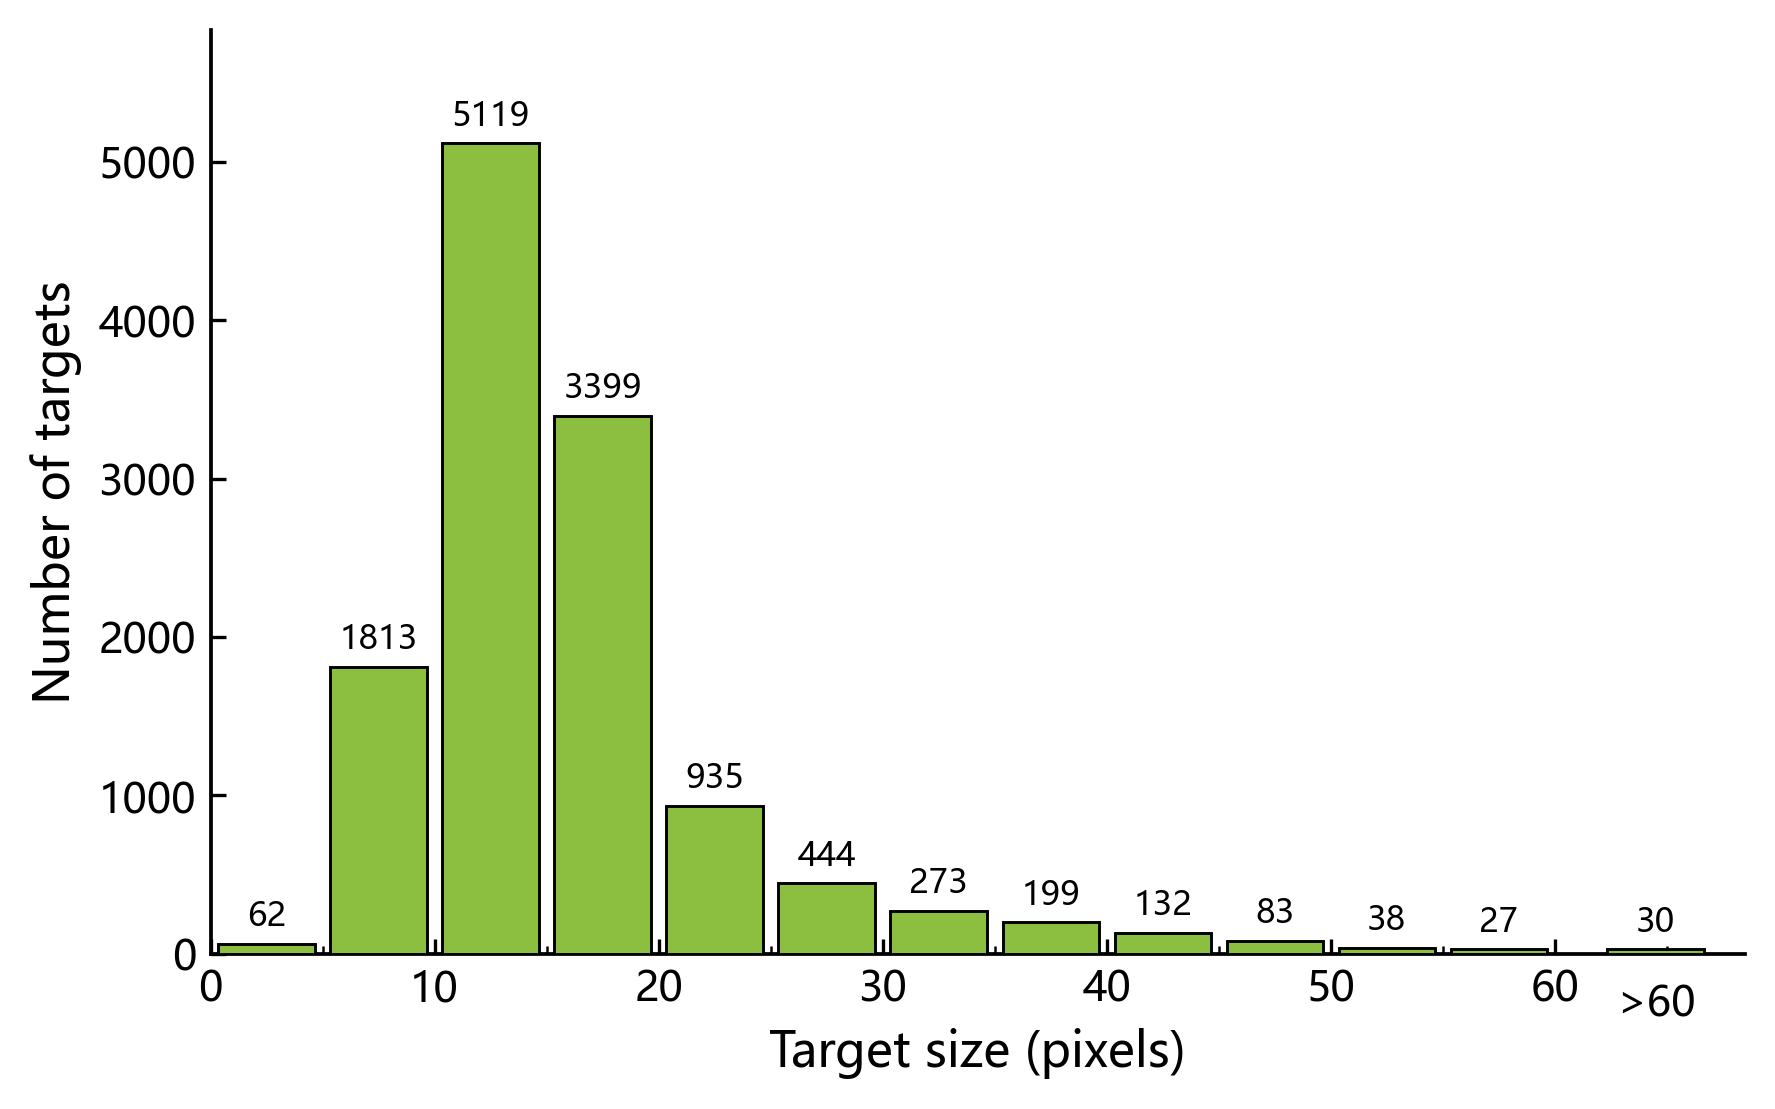
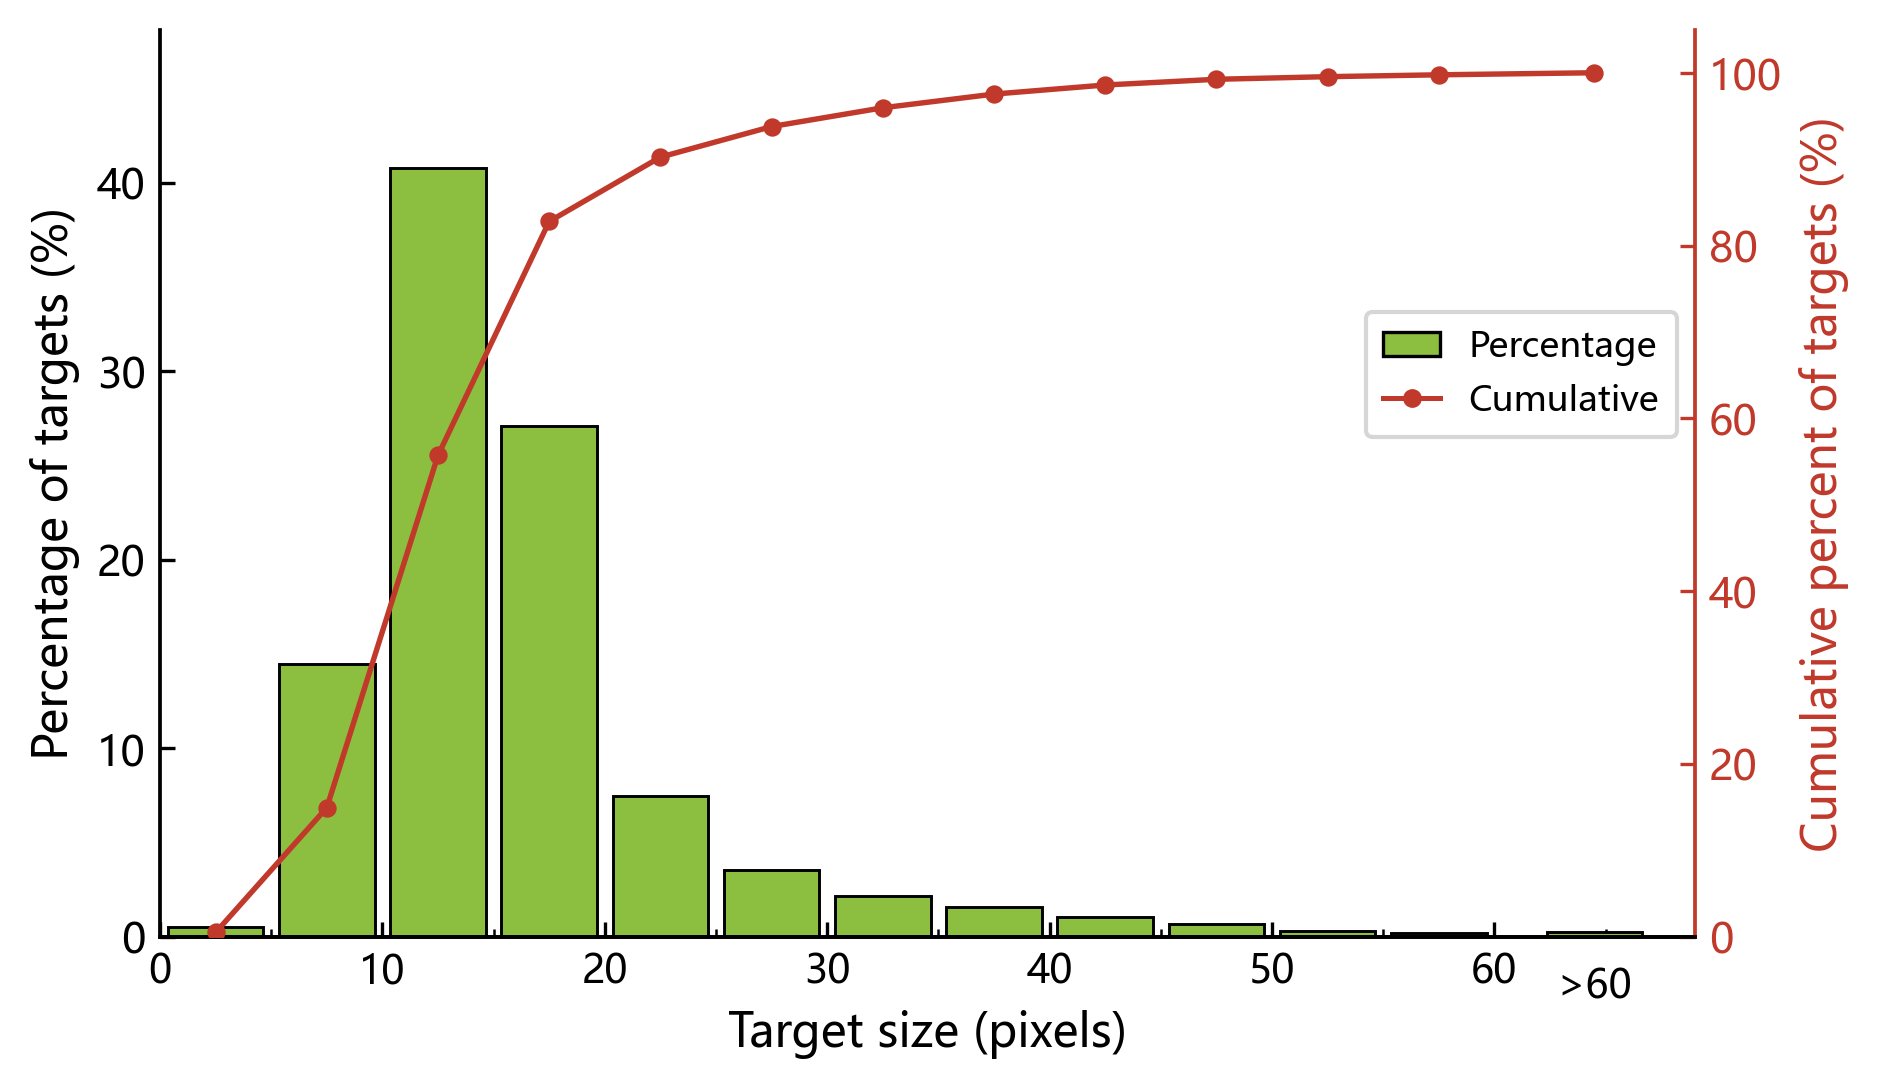
数据集统计图改为占比 + 右轴累计曲线，并合并为 (a)(b) 双栏图

diff --git a/tools/plot_seal_dataset_stats.py b/tools/plot_seal_dataset_stats.py
@@ -1,16 +1,20 @@
-"""Plot Seal dataset statistics (target number per image, target size).
+"""Plot Seal dataset statistics: target number per image and target size.
 
-Input: JSON produced by tmp/seal_dataset_stats.py (run on the server).
-Output: two PNGs in Ours/dataset_stats/.
+Input: JSON produced by tools/compute_seal_dataset_stats.py (run on the server).
+Outputs (Ours/dataset_stats/):
+    seal_dataset_statistics.png            two panels (a)(b), for the paper
+    seal_target_number_distribution.png    panel (a) alone
+    seal_target_size_distribution.png      panel (b) alone
 
-Style follows the IRSTD dataset-statistics figure used in papers: white
-background, single-colour bars with black edges, left/bottom spines only, no
-grid. All text uses Microsoft YaHei as requested.
+Both panels show the percentage on the left axis and the cumulative
+percentage on the right axis (Fig. 4(b) style). White background, single-colour
+bars with black edges, cumulative line + markers on a twin axis, left/bottom
+spines only, no grid. All text uses Microsoft YaHei.
 
 Binning
 -------
-* target number per image: exact 1..10, then 11-15 / 16-20 / >20, because
-  95 % of the images have at most 10 targets and the tail reaches 47.
+* target number per image: exact 1..10, then 11-15 / 16-20 / >20 (95 % of the
+  images have at most 10 targets; the tail reaches 47).
 * target size: 5-pixel bins from 0 to 60, plus one ">60" bar; only 30 of the
   12,554 targets (0.24 %) are larger than 60 px (max 114).
 """
@@ -23,14 +27,16 @@ import matplotlib
 matplotlib.use("Agg")
 import matplotlib.pyplot as plt
 from matplotlib import font_manager
-from matplotlib.ticker import MultipleLocator
+from matplotlib.lines import Line2D
+from matplotlib.patches import Patch
+from matplotlib.ticker import FormatStrFormatter, MultipleLocator
 
 ROOT = Path(__file__).resolve().parents[1]
-
 EXACT = list(range(1, 11))
 NUMBER_TAIL = [("11-15", 11, 15), ("16-20", 16, 20), (">20", 21, 10 ** 6)]
 SIZE_EDGES = list(range(0, 60, 5))
 BAR_COLOR = "#8CBF3F"
+CURVE_COLOR = "#C0392B"
 
 
 def pick_font():
@@ -46,8 +52,8 @@ def setup(font):
     plt.rcParams.update({
         "font.family": font,
         "font.size": 10,
-        "axes.labelsize": 11.5,
-        "xtick.labelsize": 10,
+        "axes.labelsize": 11,
+        "xtick.labelsize": 9.5,
         "ytick.labelsize": 10,
         "axes.linewidth": 0.9,
         "xtick.direction": "in",
@@ -57,7 +63,17 @@ def setup(font):
     })
 
 
-def finish(ax):
+def couple_axes(ax2, unit):
+    ax2.set_ylim(0, 105)
+    ax2.set_ylabel(f"Cumulative percent of {unit} (%)", color=CURVE_COLOR)
+    ax2.tick_params(axis="y", colors=CURVE_COLOR, direction="in")
+    ax2.spines["right"].set_color(CURVE_COLOR)
+    for side in ("top", "left"):
+        ax2.spines[side].set_visible(False)
+    ax2.yaxis.set_major_locator(MultipleLocator(20))
+
+
+def tidy(ax):
     for side in ("top", "right"):
         ax.spines[side].set_visible(False)
     ax.spines["left"].set_color("black")
@@ -65,64 +81,112 @@ def finish(ax):
     ax.grid(False)
 
 
-def bar_target_number(stats, outdir: Path):
+def add_legend(ax, loc="upper right", anchor=None):
+    handles = [Patch(facecolor=BAR_COLOR, edgecolor="black", linewidth=0.8, label="Percentage"),
+               Line2D([], [], color=CURVE_COLOR, marker="o", markersize=3.5, linewidth=1.2,
+                      label="Cumulative")]
+    ax.legend(handles=handles, loc=loc, bbox_to_anchor=anchor, frameon=True, fontsize=8.5,
+              borderpad=0.5, handlelength=1.6)
+
+
+def panel_number(ax, stats):
     per_image = {int(k): v for k, v in stats["per_image"].items()}
-    labels, counts = [str(k) for k in EXACT], [per_image.get(k, 0) for k in EXACT]
+    labels = [str(k) for k in EXACT]
+    counts = [per_image.get(k, 0) for k in EXACT]
     for name, lo, hi in NUMBER_TAIL:
         labels.append(name)
         counts.append(sum(v for k, v in per_image.items() if lo <= k <= hi))
+    total = sum(counts)
+    pct = [c / total * 100 for c in counts]
+    cum, running = [], 0.0
+    for p in pct:
+        running += p
+        cum.append(running)
 
-    fig, ax = plt.subplots(figsize=(7.3, 4.0))
+    ax2 = ax.twinx()
     x = list(range(len(counts)))
-    ax.bar(x, counts, width=0.72, color=BAR_COLOR, edgecolor="black", linewidth=0.8, zorder=3)
+    ax.bar(x, pct, width=0.72, color=BAR_COLOR, edgecolor="black", linewidth=0.8, zorder=2)
+    ax2.plot(x, cum, color=CURVE_COLOR, marker="o", markersize=3.6, linewidth=1.3, zorder=4)
+
     ax.set_xticks(x)
     ax.set_xticklabels(labels)
     for tick, label in zip(ax.get_xticklabels(), labels):
         if "-" in label or label.startswith(">"):
-            tick.set_fontsize(9)
-    ax.set_xlabel("Target number per image")
-    ax.set_ylabel("Number of images")
-    ax.set_ylim(0, max(counts) * 1.14)
-    ax.yaxis.set_major_locator(MultipleLocator(500))
+            tick.set_fontsize(8.5)
+            tick.set_rotation(32)
+            tick.set_ha("right")
+            tick.set_rotation_mode("anchor")
     ax.set_xlim(-0.7, len(counts) - 0.3)
-    for i, c in enumerate(counts):
-        ax.text(i, c + max(counts) * 0.012, f"{c}", ha="center", va="bottom", fontsize=8.5)
-    finish(ax)
-    out = outdir / "seal_target_number_distribution.png"
-    fig.savefig(out)
-    plt.close(fig)
-    print(f"wrote {out}  images {sum(counts)}")
+    ax.set_ylim(0, max(pct) * 1.18)
+    ax.set_xlabel("Target number per image")
+    ax.set_ylabel("Percentage of images (%)")
+    ax.yaxis.set_major_formatter(FormatStrFormatter("%.0f"))
+    tidy(ax)
+    couple_axes(ax2, "images")
+    add_legend(ax, loc="center right", anchor=(1.0, 0.45))
 
 
-def bar_target_size(stats, outdir: Path):
+def panel_size(ax, stats):
     area = {int(k): v for k, v in stats["area_hist"].items()}
     counts = [sum(v for k, v in area.items() if lo <= k < lo + 5) for lo in SIZE_EDGES]
     overflow = sum(v for k, v in area.items() if k >= SIZE_EDGES[-1] + 5)
+    total = sum(counts) + overflow
+    pct = [c / total * 100 for c in counts] + [overflow / total * 100]
+    cum, running = [], 0.0
+    for p in pct:
+        running += p
+        cum.append(running)
 
-    fig, ax = plt.subplots(figsize=(6.6, 4.0))
     centers = [lo + 2.5 for lo in SIZE_EDGES]
-    ax.bar(centers, counts, width=4.3, color=BAR_COLOR, edgecolor="black", linewidth=0.7, zorder=3)
     x_tail = SIZE_EDGES[-1] + 9.5
-    ax.bar([x_tail], [overflow], width=4.3, color=BAR_COLOR, edgecolor="black", linewidth=0.7, zorder=3)
+    ax2 = ax.twinx()
+    ax.bar(centers, pct[:-1], width=4.3, color=BAR_COLOR, edgecolor="black", linewidth=0.7, zorder=2)
+    ax.bar([x_tail], [pct[-1]], width=4.3, color=BAR_COLOR, edgecolor="black", linewidth=0.7, zorder=2)
+    ax2.plot(centers + [x_tail], cum, color=CURVE_COLOR, marker="o", markersize=3.4,
+             linewidth=1.3, zorder=4)
+
     ticks = list(range(0, SIZE_EDGES[-1] + 6, 10))
     ax.set_xticks(ticks)
     ax.set_xticklabels([str(t) for t in ticks])
     ax.annotate(">60", xy=(x_tail, 0), xytext=(0, -7), textcoords="offset points",
-                ha="center", va="top", fontsize=10, annotation_clip=False)
-    ax.set_xlim(0, x_tail + 4)
+                ha="center", va="top", fontsize=9.5, annotation_clip=False)
+    ax.set_xlim(0, x_tail + 4.5)
+    ax.set_ylim(0, max(pct) * 1.18)
     ax.set_xlabel("Target size (pixels)")
-    ax.set_ylabel("Number of targets")
-    ax.set_ylim(0, max(counts) * 1.14)
-    ax.yaxis.set_major_locator(MultipleLocator(1000))
+    ax.set_ylabel("Percentage of targets (%)")
+    ax.yaxis.set_major_formatter(FormatStrFormatter("%.0f"))
     ax.xaxis.set_minor_locator(MultipleLocator(5))
-    for center, count in list(zip(centers, counts)) + [(x_tail, overflow)]:
-        if count:
-            ax.text(center, count + max(counts) * 0.012, f"{count}", ha="center", va="bottom", fontsize=8)
-    finish(ax)
-    out = outdir / "seal_target_size_distribution.png"
+    tidy(ax)
+    couple_axes(ax2, "targets")
+    add_legend(ax, loc="center right", anchor=(1.0, 0.62))
+
+
+def label_panels(axes):
+    for ax, tag in zip(axes, ("(a)", "(b)")):
+        ax.annotate(tag, xy=(0.5, 0), xycoords="axes fraction", xytext=(0, -46),
+                    textcoords="offset points", ha="center", va="top", fontsize=11)
+
+
+def render(stats, outdir: Path):
+    fig, axes = plt.subplots(1, 2, figsize=(12.2, 4.1))
+    panel_number(axes[0], stats)
+    panel_size(axes[1], stats)
+    label_panels(axes)
+    fig.subplots_adjust(wspace=0.45, bottom=0.22)
+    out = outdir / "seal_dataset_statistics.png"
     fig.savefig(out)
     plt.close(fig)
-    print(f"wrote {out}  targets {sum(counts) + overflow} (>{SIZE_EDGES[-1]}: {overflow})")
+    print(f"wrote {out}")
+
+    for maker, name in ((panel_number, "seal_target_number_distribution.png"),
+                        (panel_size, "seal_target_size_distribution.png")):
+        fig, ax = plt.subplots(figsize=(6.6, 4.2))
+        maker(ax, stats)
+        fig.subplots_adjust(bottom=0.16)
+        out = outdir / name
+        fig.savefig(out)
+        plt.close(fig)
+        print(f"wrote {out}")
 
 
 def main():
@@ -139,8 +203,7 @@ def main():
     font = pick_font()
     print("font:", font)
     setup(font)
-    bar_target_number(stats, args.outdir)
-    bar_target_size(stats, args.outdir)
+    render(stats, args.outdir)
     print("images", stats["images"], "targets", stats["targets"],
           "empty", stats["empty_images"], "area", stats["area_summary"])
 

diff --git a/Ours/dataset_stats/README.md b/Ours/dataset_stats/README.md
@@ -27,18 +27,27 @@
 
 95.2%（3,793 张）的图像最多 10 个目标，尾部单张最多 47 个。
 
-## 两张图
+## 三张图
 
 | 文件 | 内容 |
 |---|---|
-| `seal_target_number_distribution.png` | 横轴：每图目标个数；纵轴：图像数（样本数） |
-| `seal_target_size_distribution.png` | 横轴：目标大小（像素）；纵轴：mask 个数（目标数） |
+| `seal_dataset_statistics.png` | **(a)(b) 双栏合并图，可直接进论文** |
+| `seal_target_number_distribution.png` | 单图 (a)：横轴每图目标个数 |
+| `seal_target_size_distribution.png` | 单图 (b)：横轴目标大小（像素） |
 
+两栏都以**占比**为纵轴、右轴给**累计占比**（Fig. 4(b) 的做法）：
+
+- (a) 纵轴 = 该目标个数的图像数 / 全部图像数（%）；右轴 = 累计图像占比。
+- (b) 纵轴 = 该尺寸区间的目标数 / 全部目标数（%）；右轴 = 累计目标占比。
 - 横轴分箱：目标个数用 1–10 精确值 + `11-15` / `16-20` / `>20` 三组；目标大小用 5 像素一格（0–60），
   末端 `>60` 单独一根柱（全部数据里只有 30 个目标，占 0.24%，最大 114 px），避免长尾把主体压扁。
-- 样式：单色柱 + 黑边，仅保留左/下坐标轴、无网格，柱顶标数值；字体 **Microsoft YaHei**，
-  300 dpi，`bbox_inches='tight'`。
-- 两张图的柱颜色统一为 `#8CBF3F`。
+- 样式：单色柱（`#8CBF3F`）+ 黑边；累计曲线用红棕色（`#C0392B`）圆点线画在右轴；
+  仅保留必要坐标轴、无网格；字体 **Microsoft YaHei**，300 dpi，`bbox_inches='tight'`。
+
+图注可用：
+
+> Fig. X. Statistics of the Seal dataset. (a) Target number per image and (b) target size
+> distribution. Bars: percentage of images / targets; red lines (right axis): cumulative percentage.
 
 ## 复算
 
@@ -50,7 +59,7 @@ ssh RSML-3 "python /share_datasets/Seal_Model_Reproduction/tools/compute_seal_da
   > Ours/dataset_stats/seal_dataset_stats.json
 
 # 本地
-python tools/plot_seal_dataset_stats.py                     # 全部 3,983 张
+python tools/plot_seal_dataset_stats.py                 # 全部 3,983 张，输出 3 张图
 python tools/plot_seal_dataset_stats.py --split test        # 只看 test
 ```
 
